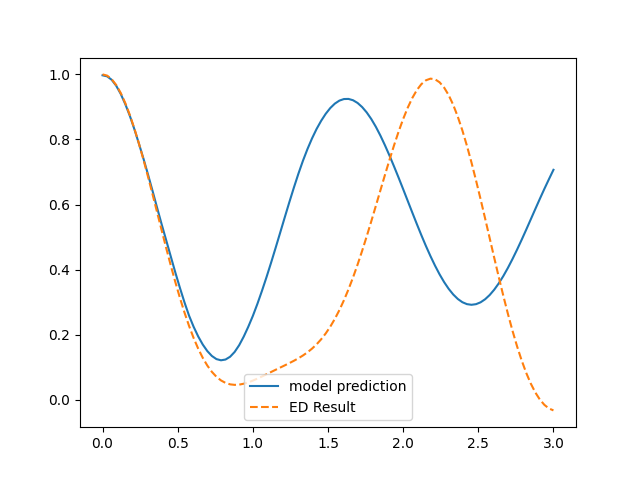
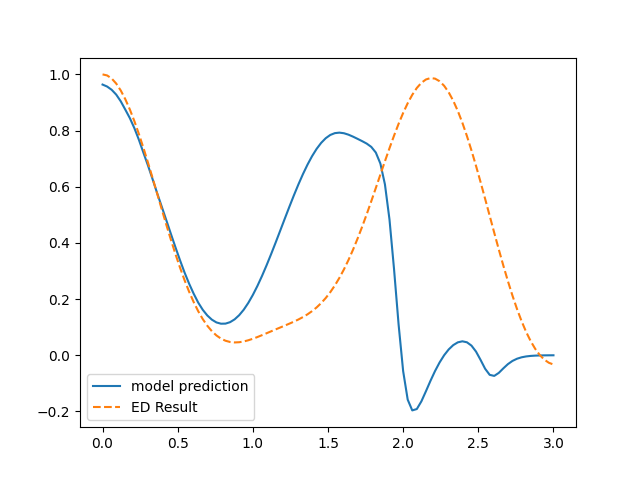
complex psi added

diff --git a/model.py b/model.py
@@ -60,8 +60,8 @@ val_data = Datasets.Val_Data(lattice_sites, ED_data, (0.5,), o_mat, g_dtype)
 val_dataloader = DataLoader(val_data, batch_size=len(val_data), num_workers=24)
 val_iter = iter(val_dataloader)
 
-train_data = Datasets.Train_Data(lattice_sites, [h1_mat, h2_mat], h2_range, o_mat, g_dtype,  t_max=3)
-train_dataloader = DataLoader(dataset=train_data, batch_size=100, num_workers=24)
+train_data = Datasets.Train_Data(lattice_sites, [h1_mat, h2_mat], h2_range, o_mat, g_dtype,  t_max=1.5)
+train_dataloader = DataLoader(dataset=train_data, batch_size=500, num_workers=24)
 data_iter = iter(train_dataloader)
 
 
@@ -116,7 +116,7 @@ class Model(pl.LightningModule):
       nn.Linear(128, mult_size),
       nn.ReLU()
     )
-    
+    '''
     self.psi = nn.Sequential(
       nn.Linear( mult_size, psi_hidden ),
       nn.ReLU(),
@@ -128,17 +128,17 @@ class Model(pl.LightningModule):
     )
     '''
     self.psi = nn.Sequential(
-      nn.Linear( mult_size, psi_hidden),
-      nn.ReLU(),
-      utils.Euler_act(),
-      nn.Linear(int(psi_hidden / 2), int(psi_hidden / 2), dtype=torch.complex64),
-      utils.complex_relu(),
-      nn.Linear(int(psi_hidden / 2), int(psi_hidden / 2), dtype=torch.complex64),
-      utils.complex_relu(),
-      nn.Linear(int(psi_hidden / 2), 1, dtype=torch.complex64)
+      utils.to_complex(),
+      nn.Linear( mult_size, psi_hidden, dtype=torch.complex64),
+      utils.odd_act(),
+      nn.Linear(psi_hidden, psi_hidden, dtype=torch.complex64),
+      utils.odd_act(),
+      nn.Linear(psi_hidden, psi_hidden, dtype=torch.complex64),
+      utils.odd_act(),
+      nn.Linear(psi_hidden, 1, dtype=torch.complex64)
     )
     
-  
+    '''
     hidden_size = 64
     self.simple_model = nn.Sequential(
       nn.Linear( 2 * lattice_sites + 2 , hidden_size, dtype=g_dtype),
@@ -164,10 +164,10 @@ class Model(pl.LightningModule):
     t_out = self.tNN(alpha)
 
     #rad_and_phase = self.psi( torch.cat((t_out, lat_out), dim=1))
-    #psi = self.psi( (t_out * lat_out) )
-    rad_and_phase = self.psi( t_out * lat_out )
+    psi = self.psi( (t_out * lat_out) )
+    #rad_and_phase = self.psi( t_out * lat_out )
     #rad_and_phase = self.simple_model( torch.cat((one_hot_spins, alpha), dim=1))
-    psi = rad_and_phase[:, 0] * torch.exp( 1.j * rad_and_phase[:, 1] )
+    #psi = rad_and_phase[:, 0] * torch.exp( 1.j * rad_and_phase[:, 1] )
     #psi = rad_and_phase[:, 0] * torch.exp( 1.j * rad_and_phase[:, 1] ) +  rad_and_phase[:, 2] * torch.exp( -1.j * rad_and_phase[:, 3] )
     #psi = torch.exp(-1j * alpha * spins) / np.sqrt(2)
     return psi
@@ -276,8 +276,10 @@ class Model(pl.LightningModule):
     return {'val_loss': val_loss}
 
   def configure_optimizers(self):
-    #optimizer = torch.optim.LBFGS(self.parameters(), lr=1e-1)
-    optimizer = torch.optim.Adam(self.parameters(), lr=1e-4)
+    #optimizer = torch.optim.LBFGS(self.parameters(), lr=1e-2)
+    optimizer = torch.optim.Adam(self.parameters(), lr=1e-3)
+    #optimizer = torch.optim.RMSprop(self.parameters())
+    #optimizer = torch.optim.SGD(self.parameters(), lr=1e-3)
     return optimizer
 
 

diff --git a/utils.py b/utils.py
@@ -193,8 +193,8 @@ def train_loss2(dt_psi_s, h_loc, psi_s, psi_s_0, o_loc, alpha):
   dt_psi_sq_sum = (torch.abs(dt_psi_s)**2).sum(1)
   dt_psi_h_loc_sum = (torch.conj(dt_psi_s) * h_loc).sum(1)
   #print("abs val diff: ", torch.abs(h_loc_sq_sum - dt_psi_h_loc_sum))
-  #schroedinger = torch.mean( torch.exp(- alpha[:, 0, 0]) * torch.abs( h_loc_sq_sum + dt_psi_sq_sum - 2 * torch.imag(dt_psi_h_loc_sum) ) ** 2)
-  schroedinger = torch.mean( torch.abs( h_loc_sq_sum + dt_psi_sq_sum - 2 * torch.imag(dt_psi_h_loc_sum) ) ** 2)
+  schroedinger = torch.mean( torch.exp(- alpha[:, 0, 0]) * torch.abs( h_loc_sq_sum + dt_psi_sq_sum - 2 * torch.imag(dt_psi_h_loc_sum) ) ** 2)
+  #schroedinger = torch.mean( torch.abs( h_loc_sq_sum + dt_psi_sq_sum - 2 * torch.imag(dt_psi_h_loc_sum) ) ** 2)
 
   #part to encourage a normed wave fun
   batched_norm = psi_norm(psi_s)
@@ -258,15 +258,21 @@ class complex_celu(nn.Module):
   def forward(self, x): 
     return self.celu(torch.real(x)) + 1j * self.celu(torch.imag(x))
 
-class Mult_Inputs(nn.Module):
-  def __init__(self):
-    super().__init__()
-  def forward(self, inp1, inp2): 
-    return inp1 * inp2
-
 class Euler_act(nn.Module):
   def __init__(self):
     super().__init__()
   def forward(self, x):
     x = x.reshape(x.shape[0], int(x.shape[1] / 2), 2)
     return x[:, :, 0] * torch.exp(1j*x[:, :, 1])
+
+class to_complex(nn.Module):
+  def __init__(self):
+    super().__init__()
+  def forward(self, x):
+    return x + 0.j
+
+class sinh_act(nn.Module):
+  def __init__(self):
+    super().__init__()
+  def forward(self, x):
+    return torch.sinh(x)
